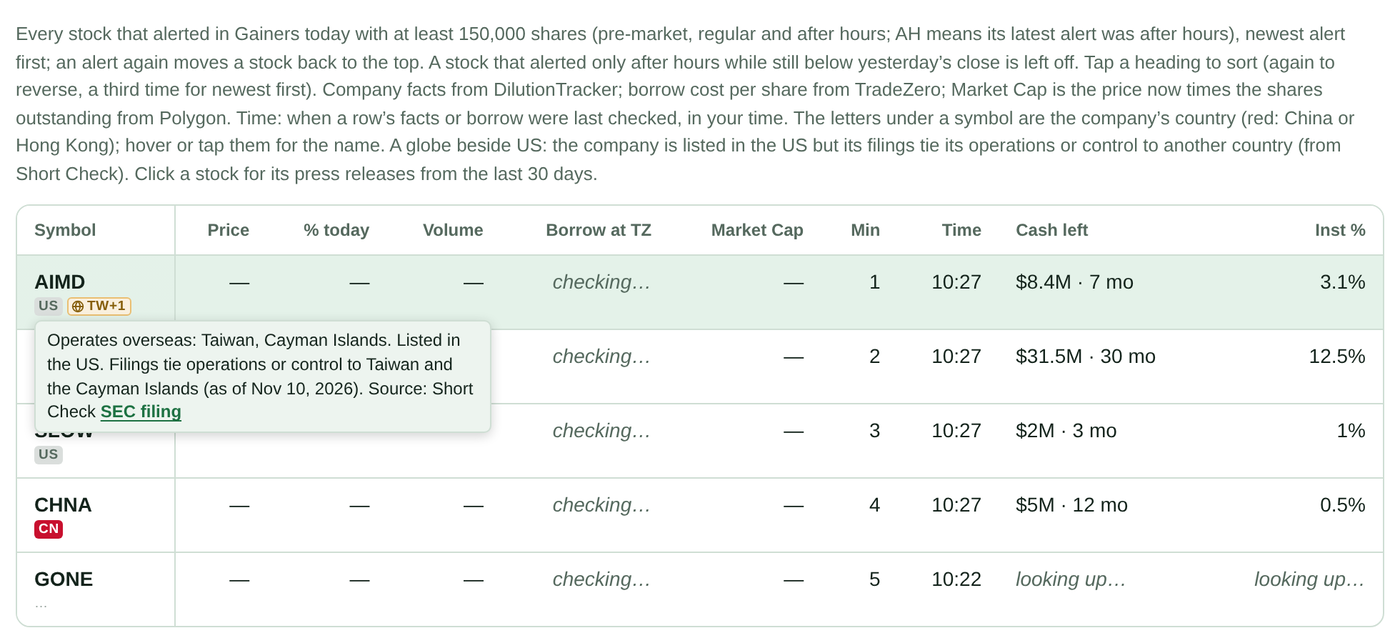
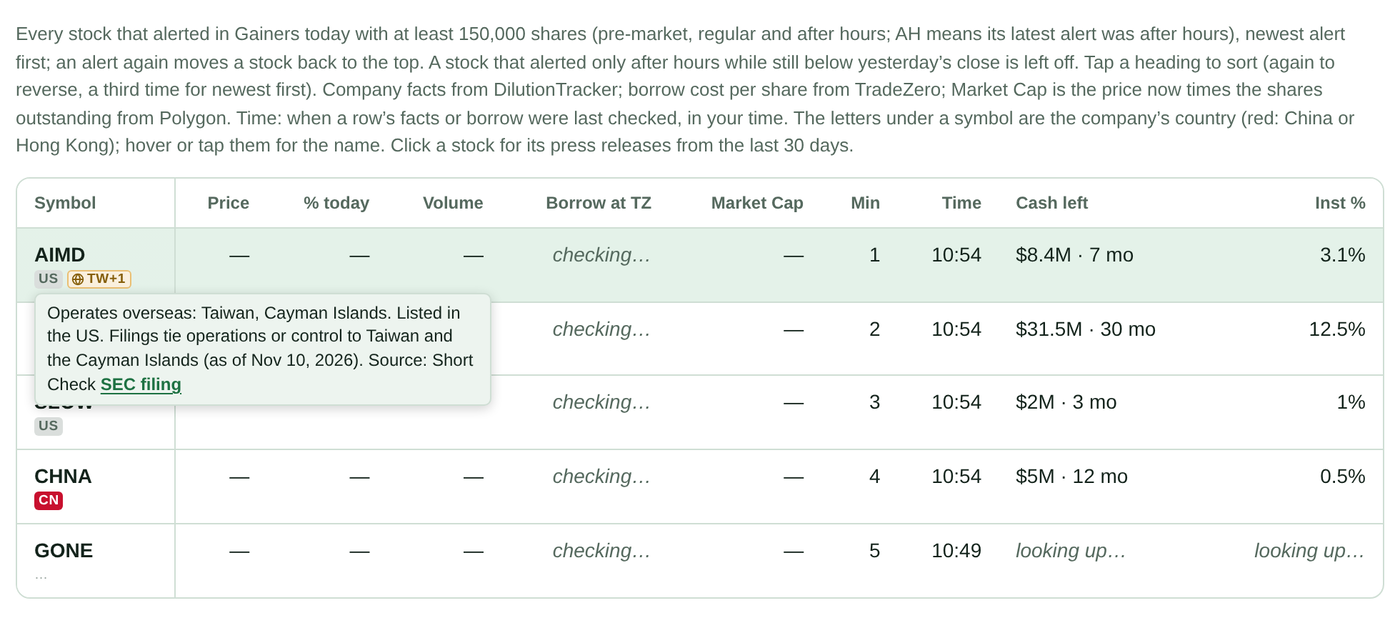
#458 Keep the Gainers intro as it was (the longer intro pushed rows under the phone headings)
The globe explains itself on hover and tap; What's New pictures retaken.

Claude-Session: https://claude.ai/code/session_011rXrQtaRGsBaEAavCHCcom

diff --git a/components/chat/ChatGainersTable.tsx b/components/chat/ChatGainersTable.tsx
@@ -449,8 +449,7 @@ export default function ChatGainersTable() {
           from DilutionTracker; borrow cost per share from TradeZero; Market Cap is the price now times the
           shares outstanding from Polygon. Time: when a row’s facts or borrow were last checked, in your time.
           The letters under a symbol are the company’s country (red: China or Hong Kong); hover or tap them
-          for the name. A globe beside US: the company is listed in the US but its filings tie its operations
-          or control to another country (from Short Check).
+          for the name.
           <span className={styles.computerOnly}>
             {" "}
             Click a stock for its press releases from the last 30 days.
